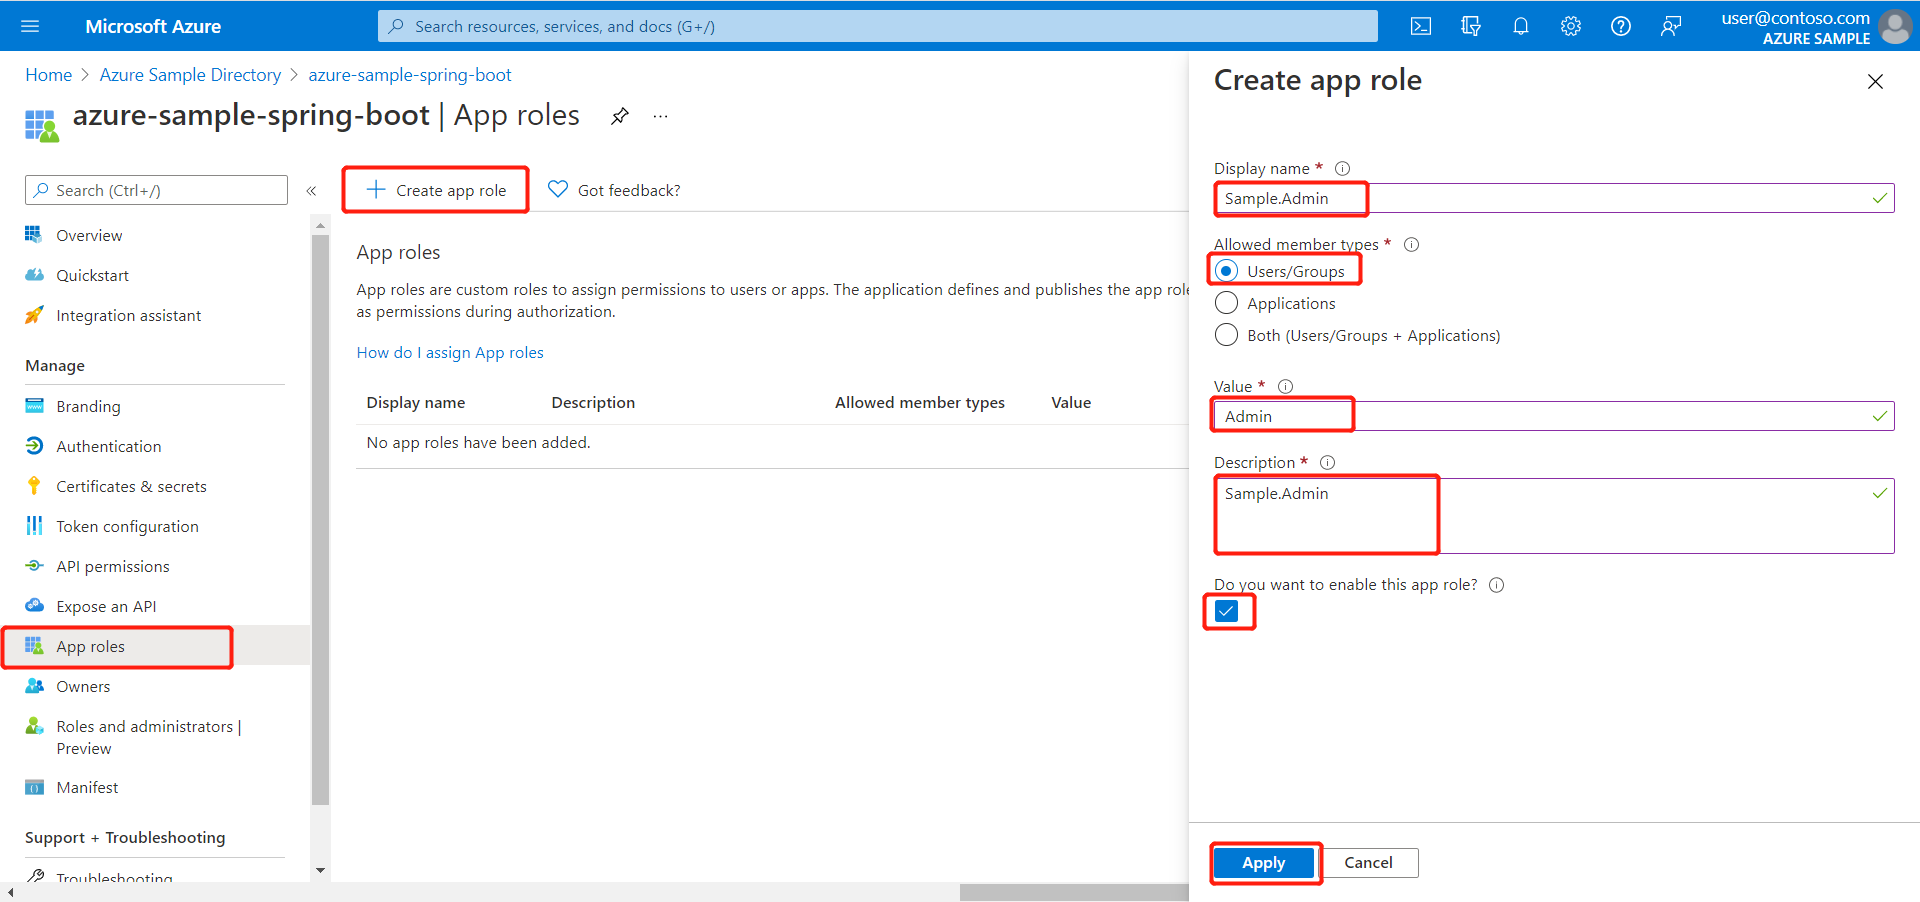
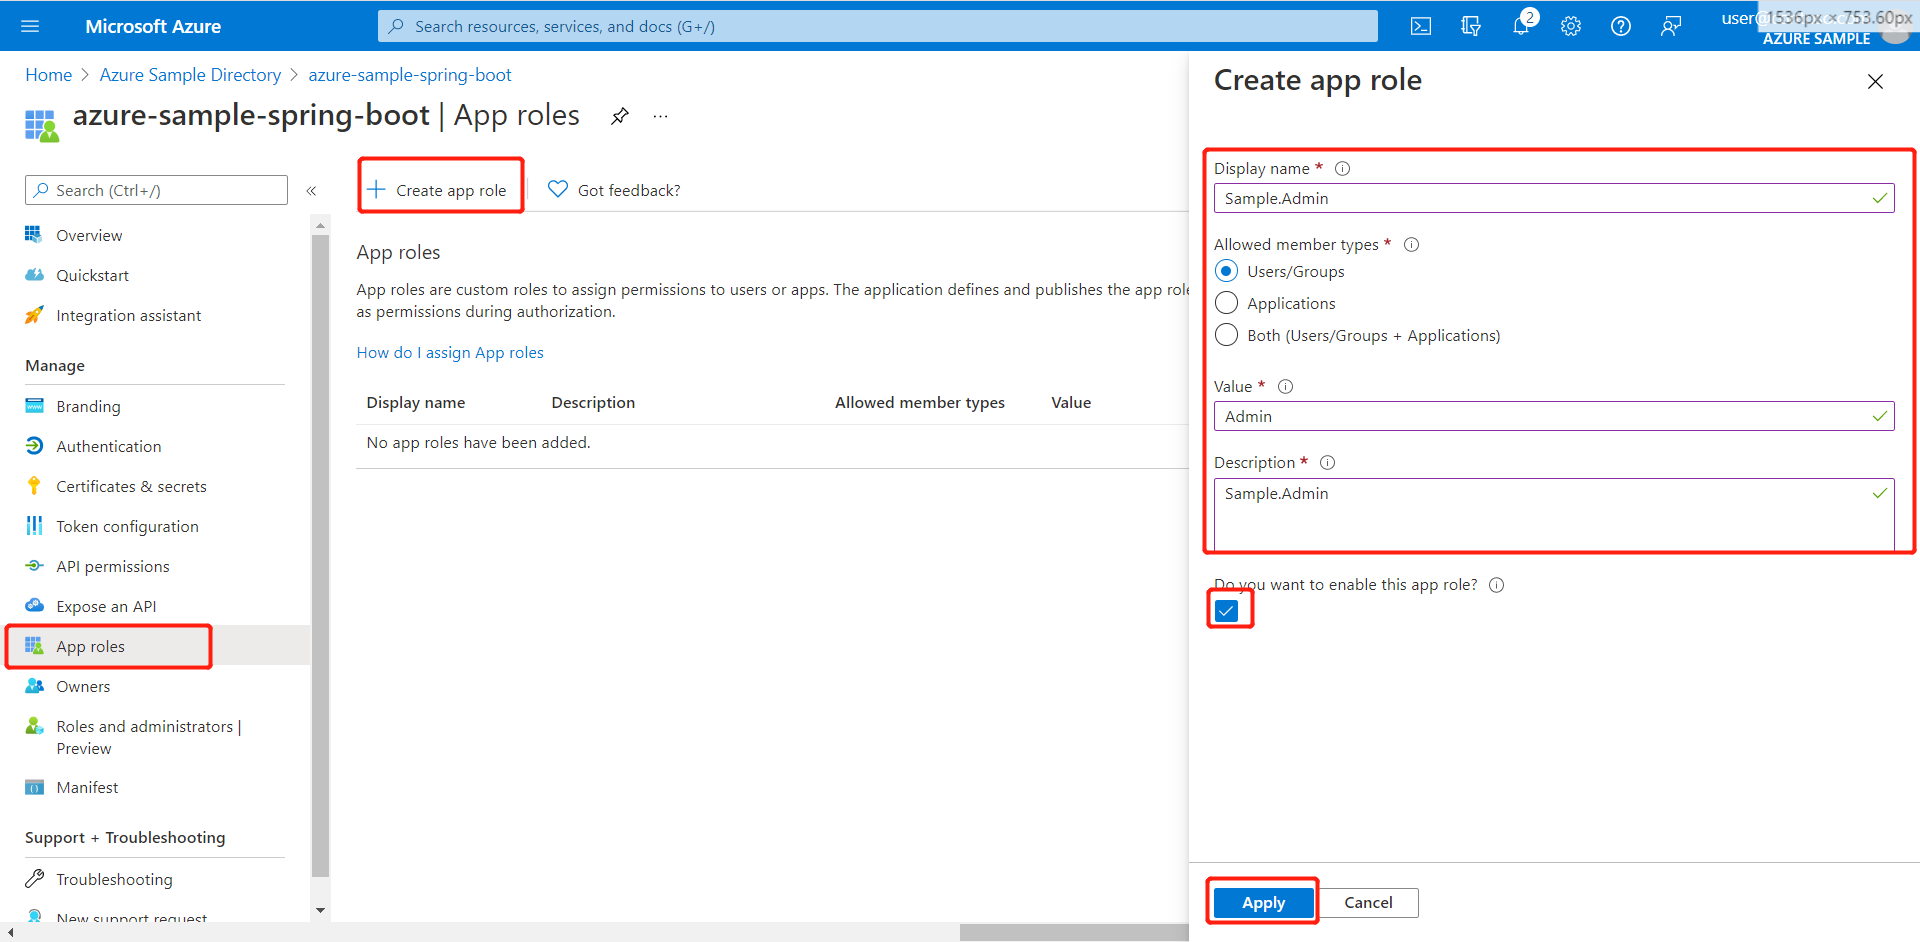
update screenshot

diff --git a/articles/java/spring-framework/configure-spring-boot-starter-java-app-with-azure-active-directory.md b/articles/java/spring-framework/configure-spring-boot-starter-java-app-with-azure-active-directory.md
@@ -40,8 +40,7 @@ The following prerequisites are required to complete the steps in this article:
 1. Add **Dependencies** for **Spring Web**, **Azure Active Directory**, and **OAuth2 Client**.
 1. At the bottom of the page, select the **GENERATE** button.
 
-   >[!div class="mx-imgBorder"]
-   >![Specify Group and Artifact names, select dependencies][create-spring-app-01]
+:::image type="content" source="media/create-spring-app-01.png" alt-text="Specify Group and Artifact names, select dependencies":::
 
 1. When prompted, download the project to a path on your local computer.
 
@@ -58,11 +57,9 @@ If you are the administrator of an existing instance, you can skip this process.
 
 1. Select **All services**, then **Identity**, and then **Azure Active Directory**.
 
-   >[!div class="mx-imgBorder"]
-   >![Create new Azure Active Directory instance_step1][create-directory-00]
+:::image type="content" source="media/create-directory-00.png" alt-text="Create new Azure Active Directory instance_step1":::
 
-   >[!div class="mx-imgBorder"]
-   >![Create new Azure Active Directory instance_step2][create-directory-01]
+:::image type="content" source="media/create-directory-01.png" alt-text="Create new Azure Active Directory instance_step2":::
 
 1. Enter your **Organization name** and your **Initial domain name**. Copy the full URL of your directory. You'll use the URL to add user accounts later in this tutorial. (For example: `azuresampledirectory.onmicrosoft.com`.)
 
@@ -70,112 +67,92 @@ If you are the administrator of an existing instance, you can skip this process.
 
    When you've finished, select **Create**. It will take a few minutes to create the new resource.
 
-   >[!div class="mx-imgBorder"]
-   >![Specify Azure Active Directory names][create-directory-02]
+:::image type="content" source="media/create-directory-02.png" alt-text="Specify Azure Active Directory names":::
 
 1. When complete, select to access the new directory.
 
-   >[!div class="mx-imgBorder"]
-   >![Select your Azure account name][create-directory-03]
+:::image type="content" source="media/create-directory-03.png" alt-text="Select your Azure account name":::
 
 1. Copy the **Tenant ID**. You'll use the ID value to configure your *application.properties* file later in this tutorial.
 
-   >[!div class="mx-imgBorder"]
-   >![Copy your Tenant ID][create-directory-04]
+:::image type="content" source="media/create-directory-04.png" alt-text="Copy your Tenant ID":::
 
 ### Add an application registration for your Spring Boot app
 
 1. From the portal menu, select **App registrations**, and then select **Register an application**.
 
-   >[!div class="mx-imgBorder"]
-   >![Add a new app registration][create-app-registration-01]
+:::image type="content" source="media/create-app-registration-01.png" alt-text="Add a new app registration":::
 
 1. Specify your application, and then select **Register**.
 
-   >[!div class="mx-imgBorder"]
-   >![Create new app registration][create-app-registration-02]
+:::image type="content" source="media/create-app-registration-02.png" alt-text="Create new app registration":::
 
 1. When the page for your app registration appears, copy your **Application ID** and the **Tenant ID**. You'll use these values to configure your *application.properties* file later in this tutorial.
 
-   >[!div class="mx-imgBorder"]
-   >![Copy app registration keys][create-app-registration-03]
+:::image type="content" source="media/create-app-registration-03.png" alt-text="Copy app registration keys":::
 
 1. Select **Certificates & secrets** in the left navigation pane.  Then select **New client secret**.
 
-   >[!div class="mx-imgBorder"]
-   >![Create app registration keys][create-app-registration-03-5]
+:::image type="content" source="media/create-app-registration-03-5.png" alt-text="Create app registration keys":::
 
 1. Add a **Description** and select duration in the **Expires** list. Select **Add**. The value for the key will be automatically filled in.
 
-   >[!div class="mx-imgBorder"]
-   >![Specify app registration key parameters][create-app-registration-04]
+:::image type="content" source="media/create-app-registration-04.png" alt-text="Specify app registration key parameters":::
 
 1. Copy and save the value of the client secret to configure your *application.properties* file later in this tutorial. (You won't be able to retrieve this value later.)
 
-   >[!div class="mx-imgBorder"]
-   >![Copy app registration key value][create-app-registration-04-5]
+:::image type="content" source="media/create-app-registration-04-5.png" alt-text="Copy app registration key value":::
 
 1. From the main page for your app registration, select **Authentication**, and select **Add a platform**.  Then select **Web applications**.
 
-   >[!div class="mx-imgBorder"]
-   >![Edit Reply URLs][create-app-registration-09]
+:::image type="content" source="media/create-app-registration-09.png" alt-text="Edit Reply URLse":::
 
 1. Enter *http://localhost:8080/login/oauth2/code/* as a new **Redirect URI**, and then select **Configure**.
 
-   >[!div class="mx-imgBorder"]
-   >![Add new Reply URL][create-app-registration-10]
+:::image type="content" source="media/create-app-registration-10.png" alt-text="Add new Reply URL":::
 
 1. If you've modified the *pom.xml* file to use an AAD starter version earlier than 3.0.0: under **Implicit grant and hybrid flows**, select **ID tokens (used for implicit and hybrid flows)**, then select **Save**.
 
-   >[!div class="mx-imgBorder"]
-   >![Enable Id Tokens][create-app-registration-11]
+:::image type="content" source="media/create-app-registration-11.png" alt-text="Enable Id Tokens":::
 
 ### Add a user account to your directory, and add that account to an appRole
 
 1. From the **Overview** page of your Active Directory, select **Users**, and then select **New user**.
 
-   >[!div class="mx-imgBorder"]
-   >![Add a new user account][create-user-01]
+:::image type="content" source="media/create-user-01.png" alt-text="Add a new user account":::
 
 1. When the **User** panel is displayed, enter the **User name** and **Name**.  Then select **Create**.
 
-   >[!div class="mx-imgBorder"]
-   >![Enter user account information][create-user-02]
+:::image type="content" source="media/create-user-02.png" alt-text="Enter user account information":::
 
    > [!NOTE]
    > You need to specify your directory URL from earlier in this tutorial when you enter the user name. For example:
    >
    > `test-user@azuresampledirectory.onmicrosoft.com`
 
-1. From the main page for your app registration, select **App roles**, then select **Create app role**. Specify your app role, then select **Apply**.
+1. From the main page for your app registration, select **App roles**, then select **Create app role**. Provide values for the form fields, select **Do you want to enable this app role?**, then select **Apply**.
 
-   >[!div class="mx-imgBorder"]
-   >![Enter app role information][create-app-role-01]
+:::image type="content" source="media/create-app-role-01.png" alt-text="Enter app role information":::
 
 1. From the **Overview** page of your Azure AD directory, select **Enterprise applications**
 
-   >[!div class="mx-imgBorder"]
-   >![Select Enterprise application][create-app-role-02]
+:::image type="content" source="media/create-app-role-02.png" alt-text="Select Enterprise application":::
 
 1. Select **All applications** , then select the application you added the app role to in a previous step.
 
-   >[!div class="mx-imgBorder"]
-   >![Choose the application to assign app role][create-app-role-03]
+:::image type="content" source="media/create-app-role-03.png" alt-text="Choose the application to assign app role":::
 
 1. Select **Users and groups**, then select **Add user/group**.
 
-   >[!div class="mx-imgBorder"]
-   >![Assign app role to user][create-app-role-04]
+:::image type="content" source="media/create-app-role-04.png" alt-text="Assign app role to user":::
 
 1. Under **Users**, select **None Selected**. Select the user you created earlier, select **Select**, then select **Assign**. If you created more than one app role earlier, select a role.
 
-   >[!div class="mx-imgBorder"]
-   >![Choose user account][create-app-role-05]
+:::image type="content" source="media/create-app-role-05.png" alt-text="Choose user account":::
 
 1. Go back to the **Users** panel, select your test user, and select **Reset password**, and copy the password. You'll use the password when you log into your application later in this tutorial.
 
-   >[!div class="mx-imgBorder"]
-   >![Show the password][create-user-04]
+:::image type="content" source="media/create-user-04.png" alt-text="Show the password":::
 
 ## Configure and compile your app
 
@@ -265,24 +242,20 @@ If you are the administrator of an existing instance, you can skip this process.
    mvn spring-boot:run
    ```
 
-   >[!div class="mx-imgBorder"]
-   >![Build your application][build-application]
+:::image type="content" source="media/build-application.png" alt-text="Build your application":::
 
 1. After your application is built and started by Maven, open `http://localhost:8080/Admin` in a web browser. You should be prompted for a user name and password.
 
-   >[!div class="mx-imgBorder"]
-   ![Logging into your application][application-login]
+:::image type="content" source="media/application-login.png" alt-text="Logging into your application":::
 
    > [!NOTE]
    > You may be prompted to change your password if this is the first login for a new user account.
 
-   >[!div class="mx-imgBorder"]
-   >![Changing your password][update-password]
+:::image type="content" source="media/update-passwor.png" alt-text="Changing your password":::
 
 1. After you've logged in successfully, you should see the sample "Admin message" text from the controller.
 
-   >[!div class="mx-imgBorder"]
-   >![Authorized_group1][hello-admin]
+:::image type="content" source="media/hello-admin.png" alt-text="Authorized admin":::
 
 ## Summary
 
